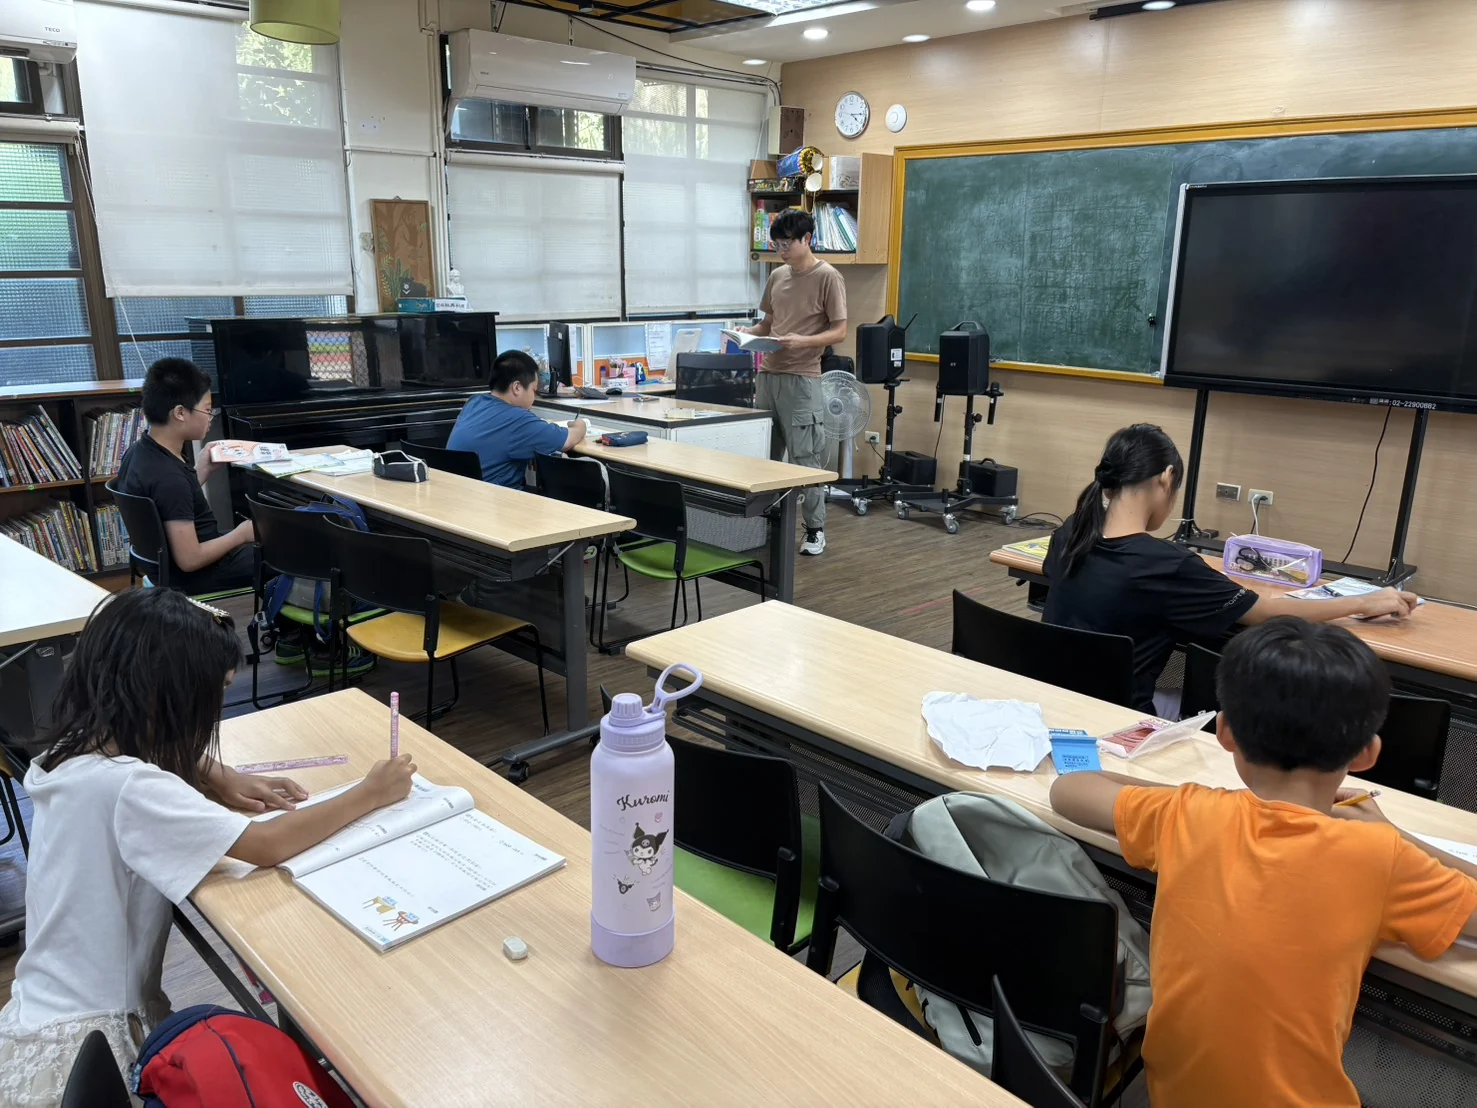
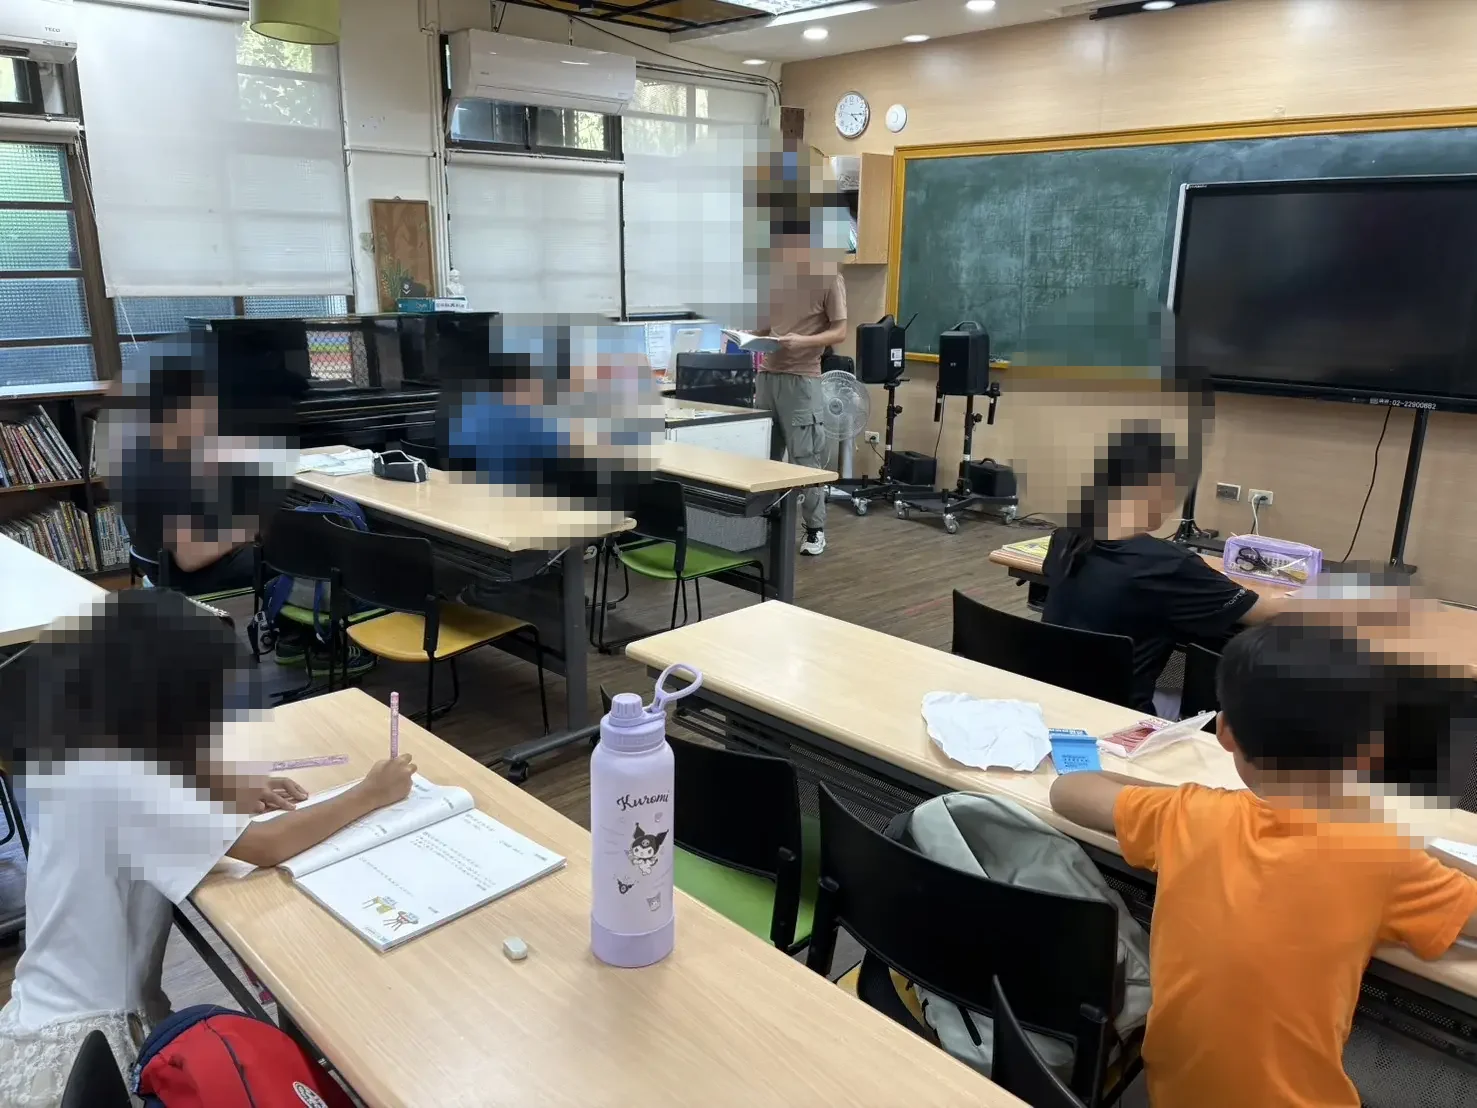
Add files via upload

diff --git a/README.md b/README.md
@@ -1,12 +1,11 @@
-# 永和國小115學年度成果網站 v0.2.4｜圖片調整版
+# 永和國小115學年度成果網站 v0.2.7｜去識別化強化版
 
 ## 本次修正
-- 「多元探索」頁避免重複使用相同圖片：
-  - 小提琴主視覺改用另一張照片
-  - 新興科技下方大圖改用另一張照片
-- 「穩定陪伴」頁第一張圖改為另一位教師的課後陪伴照片
-- 其餘內容、版面與經費來源說明維持 v0.2.3 不變
+- 以 v0.2.6 為底，逐張重新檢視網站全部 13 張照片。
+- 針對仍可辨識之學生、教師及社區活動背景人物進一步去識別化。
+- 社區活動照片額外處理背景群眾，避免僅遮前景人物而遺漏可辨識臉部。
+- 保留原活動情境、構圖與網站版面，不修改文字內容與導覽結構。
 
 ## 版本
-v0.2.4｜圖片調整版
-資料更新至：2026-10-17
+v0.2.7｜去識別化強化版
+資料更新至：2026-10-24
